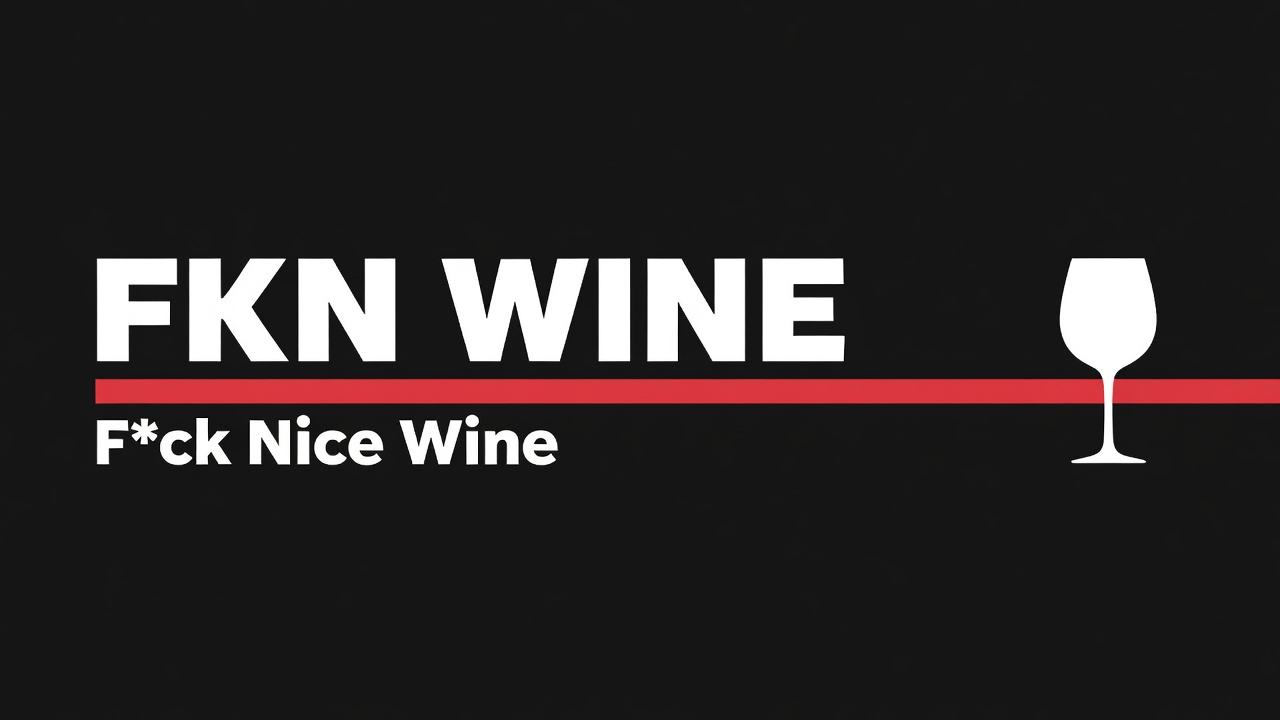
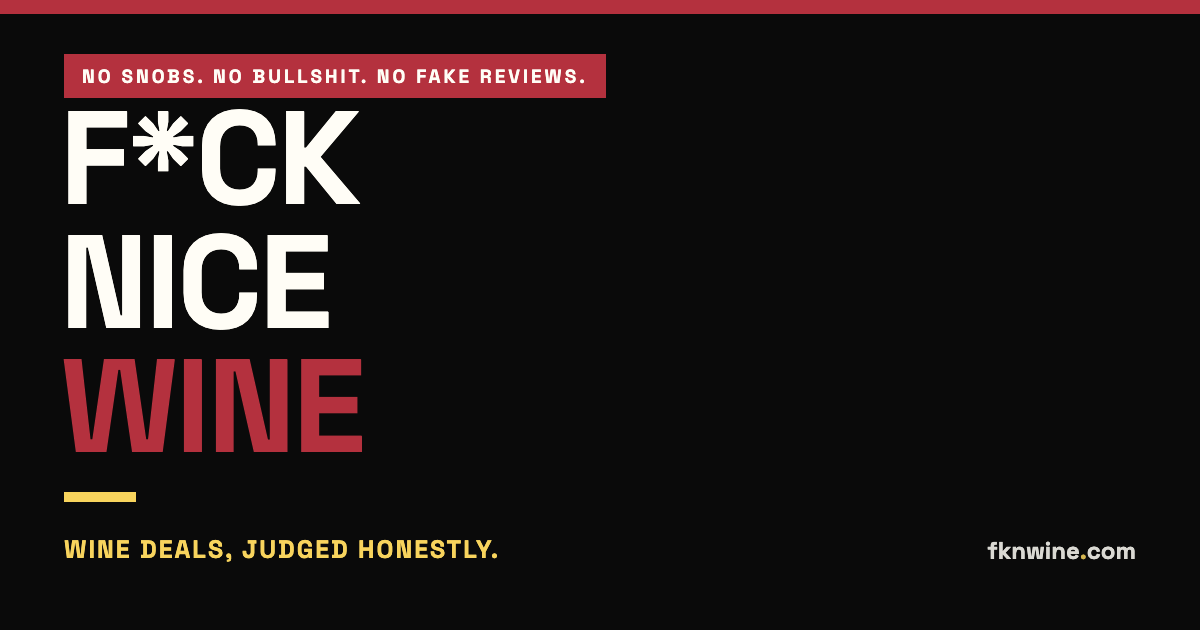
content: Winc-Review (Bright-Cellars-Migration), Winc-$100-Deal, EN-OG-Bild, Privacy-Analytics-Klarstellung; Clubs-Hub-Queue aktualisiert

diff --git a/src/data/deals.ts b/src/data/deals.ts
@@ -3,7 +3,7 @@
 
 export interface Deal {
   id: string;
-  merchantId: 'firstleaf' | 'wtso' | 'winecom';
+  merchantId: 'firstleaf' | 'wtso' | 'winecom' | 'winc';
   merchantLabel: string;
   title: string;
   detail: string;
@@ -65,6 +65,18 @@ export const deals: Deal[] = [
     detail:
       '$7.50 a bottle to test if a personalized club beats your supermarket run. After that $99 per shipment (~$16.50 a bottle). No commitment — cancel anytime.',
     price: '$44.95 · 6 bottles',
+    badge: 'INTRO OFFER',
+    checked: 'Oct 16, 2026',
+    category: 'club',
+  },
+  {
+    id: 'winc-100-off-intro',
+    merchantId: 'winc',
+    merchantLabel: 'Winc',
+    title: 'Winc: $100 off over your first 4 orders',
+    detail:
+      'The current intro offer for new members — spread across four shipments, on top of the always-on 20% member discount and free shipping. Packs available without a membership if you want to taste first.',
+    price: '$100 off',
     badge: 'INTRO OFFER',
     checked: 'Oct 16, 2026',
     category: 'club',

diff --git a/src/data/merchants.ts b/src/data/merchants.ts
@@ -17,8 +17,9 @@ export const merchants = {
   firstleaf: { name: 'Firstleaf', url: 'https://www.firstleaf.com/', affiliate: null },
   wtso: { name: 'WTSO', url: 'https://www.wtso.com/', affiliate: null },
   winecom: { name: 'Wine.com', url: 'https://www.wine.com/', affiliate: null },
+  winc: { name: 'Winc', url: 'https://www.winc.com/', affiliate: null },
   // Kandidaten für die nächste Welle (Programme erst nach Site-Launch beantragbar):
-  // totalwine, vivino, brightcellars, winensiders, wsjwine …
+  // totalwine, vivino, winensiders, wsjwine … (Bright Cellars ist in Winc aufgegangen)
 } satisfies Record<string, Merchant>;
 
 export type MerchantId = keyof typeof merchants;

diff --git a/src/content.config.ts b/src/content.config.ts
@@ -14,7 +14,7 @@ const clubs = defineCollection({
     commitment: z.string(),
     cancelTerms: z.string(),
     shipsTo: z.string(),
-    merchantId: z.enum(['firstleaf', 'wtso', 'winecom']).optional(),
+    merchantId: z.enum(['firstleaf', 'wtso', 'winecom', 'winc']).optional(),
     lastChecked: z.string(),
     pros: z.array(z.string()),
     cons: z.array(z.string()),

diff --git a/src/content/clubs/winc.md b/src/content/clubs/winc.md
@@ -1,0 +1,69 @@
+---
+name: Winc
+verdict: depends
+verdictLabel: "Depends how you drink"
+summary: "The club that absorbed Bright Cellars. Strong intro math ($100 off over your first 4 orders) — ongoing, members average ~$16–20 a bottle with an always-on 20% discount and free shipping."
+priceFrom: "$100 off over your first 4 orders"
+perBottle: "~$16–20 at member pricing"
+commitment: "None — skip, pause, or cancel anytime (their terms)"
+cancelTerms: "Self-service: skip, swap bottles, cancel (their claim — we haven't tested the flow yet)"
+shipsTo: "Most US states — check the state selector before you get attached"
+merchantId: winc
+lastChecked: "2026-10-16"
+pros:
+  - "The intro is the good part: $100 off spread over your first 4 orders, on top of the standard member discount"
+  - "20% off every bottle and pack, always — visible in the prices, not a 'sale' that comes and goes"
+  - "Skip, pause, or swap bottles before a shipment goes out — self-service, per their site"
+  - "You can shop their packs without a membership to test the wine first"
+  - "If you had Bright Cellars: your subscription lives on here (more on that below)"
+cons:
+  - "Members average ~$115 per order (their number). That's a real commitment, not a 'cheap wine' club"
+  - "~$16–20 a bottle is liquor-store money — not your supermarket run"
+  - "Many of the wines are Winc's own in-house brands ('you won't find them anywhere else'). Great for their margins, fewer famous labels for you"
+  - "'The Internet's #1 Wine Club' is their marketing line — we quote it, we don't certify it"
+  - "We have NOT tested the cancellation flow — we say that out loud instead of pretending"
+order: 20
+---
+
+**What it is:** a wine club that quizzes your taste (six questions), matches you with bottles, and refines the picks as you rate what you drink. You can swap bottles before a shipment goes out — three days before, they email you the lineup.
+
+## What happened to Bright Cellars?
+
+If you're here because you searched for Bright Cellars: it's a Winc membership now. Bright Cellars customers were moved over in **October 2024**, accounts transferred automatically, and `brightcellars.com` now sends you to a Winc activation page. Same schedule, similar perks — free shipping, skip anytime, satisfaction guarantee — plus the 20% member discount. Nothing for you to do if you were already a member; if you weren't, everything below applies to you as a new one.
+
+## The math (the only part that matters)
+
+| | Number | Source |
+|---|---|---|
+| Intro offer | **$100 off over your first 4 orders** | winc.com (checked Oct 16, 2026) |
+| Typical order | 6-pack ≈ **$115** · 12-pack ≈ **$220** | Winc's own average, after discount |
+| Member price per bottle | **~$16–20** | Winc's FAQ |
+| Member discount | **20% off everything, always** | visible in listed prices (e.g. $16.80 vs $21 reg.) |
+
+The math to run: **would you pay $16–20 a bottle at the store for wines someone else picked?** If yes, Winc is a convenience play with a strong first year — the $100 intro carries the first four orders, then you're at member pricing. If you're a $8 supermarket drinker, this is not your club — genuinely.
+
+## The fine print we read
+
+- **No commitment, per their site.** Skip, pause, or cancel anytime; swaps before shipping are self-service.
+- **Free shipping on subscription orders** — no shipping minimums on member deliveries.
+- **The $100 comes over 4 orders, not all at once.** Read that twice. It's still a good deal; it's just not a "free wine" coupon.
+- **State rules apply.** Wine shipping is regulated; select your state and see before you fall for a bottle.
+- **Someone 21+ signs at the door.** Plan for it.
+
+## Who it's for
+
+- You drink $15–20 bottles, like trying unfamiliar labels, and won't miss picking every bottle yourself.
+- You want the "quiz → rate → refine" loop to do the shopping for you.
+- You were a Bright Cellars member and want to know what you're in now.
+
+## Who it's not for
+
+- You're loyal to the $8 supermarket shelf. Stay there.
+- You want famous-name producers. Winc leans on its own labels.
+- You want to hand-pick every single bottle (swaps exist, but the base is curated).
+
+## What we checked (and what we didn't)
+
+**Checked on 2026-10-16** against winc.com (membership pages + activation FAQ): intro offer, pricing model, member discount, shipping language, skip/cancel language, and the Bright Cellars migration details. Prices and terms change — the date above tells you how fresh this is, and we re-check before updates.
+
+**Not checked:** we did not taste these wines, and we have not tested the cancellation flow ourselves. When we do, this page gets updated — that's the deal with our readers.

diff --git a/docs/WAR_ROOM.md b/docs/WAR_ROOM.md
@@ -7,6 +7,12 @@
 
 ## Aktueller Stand
 
+- `2026-10-16` — **Nach dem Live-Gang selbständig weiter: X-Relaunch, Winc-Review, OG-Bild, Analytics-Fund.**
+  X: 19 Alt-Tweets (DE) gelöscht, 3 EN-Posts live (Ankündigung, WTSO-Achaval-Deal, Anti-Snob-Take);
+  **Bio/Website-Feld offen** — OAuth2 darf den Profile-Endpoint nicht (403), 60-Sek-Task für Nimar im Browser.
+  **Cloudflare Web Analytics läuft bereits** für fknwine.com (cookieless; „kein Analytics"-Befund war falsch →
+  Privacy-Seite präzisiert). Neu live: **Winc-Review** (`/wine-clubs/winc/`, inkl. „Bright Cellars ist in Winc
+  aufgegangen" + $100-Intro-Deal) und **neues EN-OG-Bild** (`og-default.png` über echten Browser gerendert).
 - `2026-10-16` — **EN-Relaunch gebaut (Branch `feat/en-relaunch`) — Preview offen.**
   Auf Nimars Go („alles selbständig machen"): neue EN-Struktur (Home / Deals / Wine Clubs /
   Guides / Legal), Content-Collections (`clubs`, `guides`), Merchant-Registry
